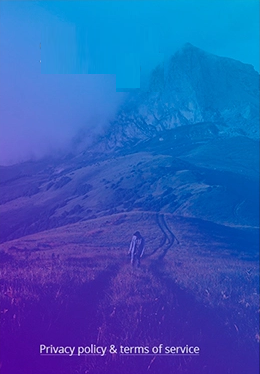
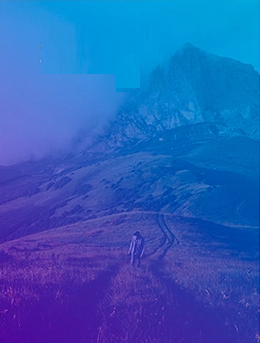
left colm auto h ir bot links

diff --git a/css/main.css b/css/main.css
@@ -15,6 +15,7 @@ body {
     display: inline-block;
     width: 800px;    
     margin: 100px calc(50% - 400px) 0;
+    position: relative;
     }
 
 .left-column {
@@ -27,6 +28,9 @@ body {
     background-size: cover;
     background-position: center;
     color: #fff;
+    position: absolute;
+    top: 40px;
+    bottom: 40px;
 }
 
 .main-title {
@@ -34,7 +38,10 @@ body {
 }
 
 .bottom-links {
-    
+    position: absolute;
+    bottom: 20px;
+    right: 40px;
+    left: 40px;
 }
 
 .bottom-links > a {
@@ -49,7 +56,7 @@ body {
 .right-column {
     width: 60%;
     padding: 60px;
-    float: left;
+    float: right;
     background-color: white;
     position: relative;
 }
